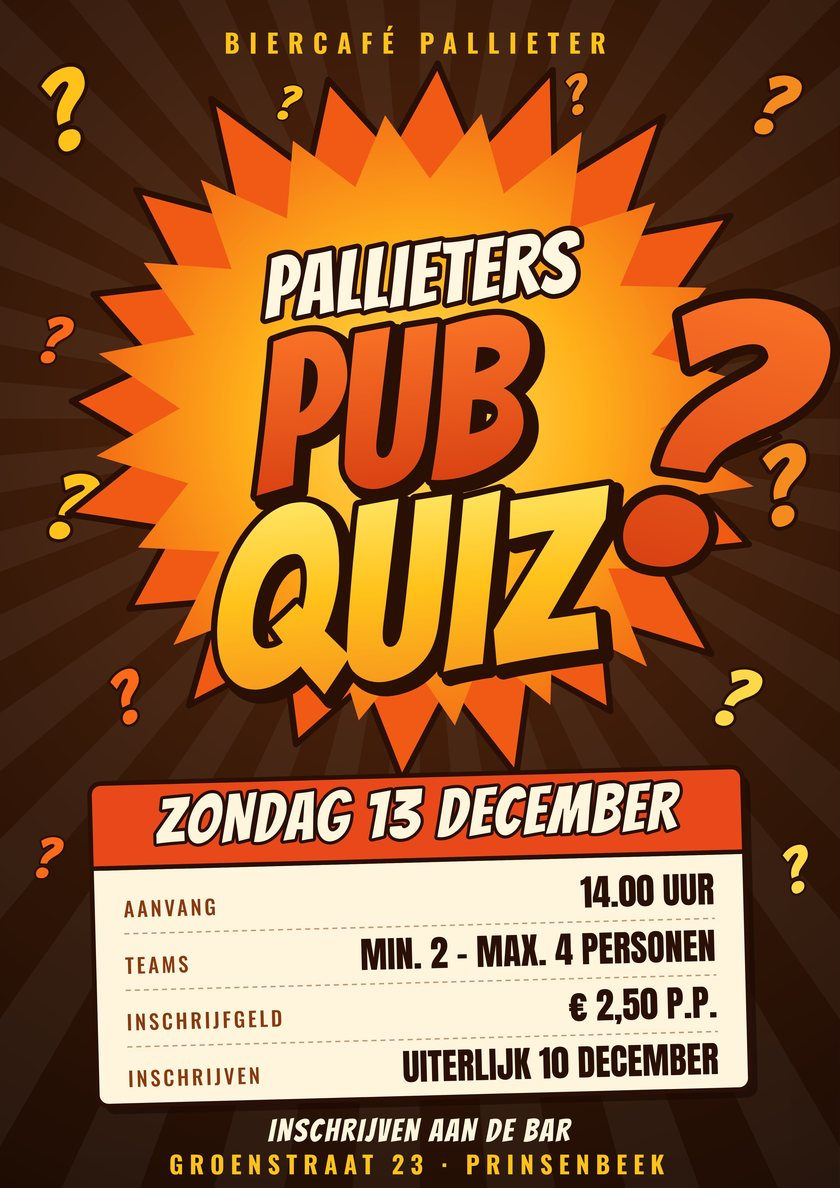
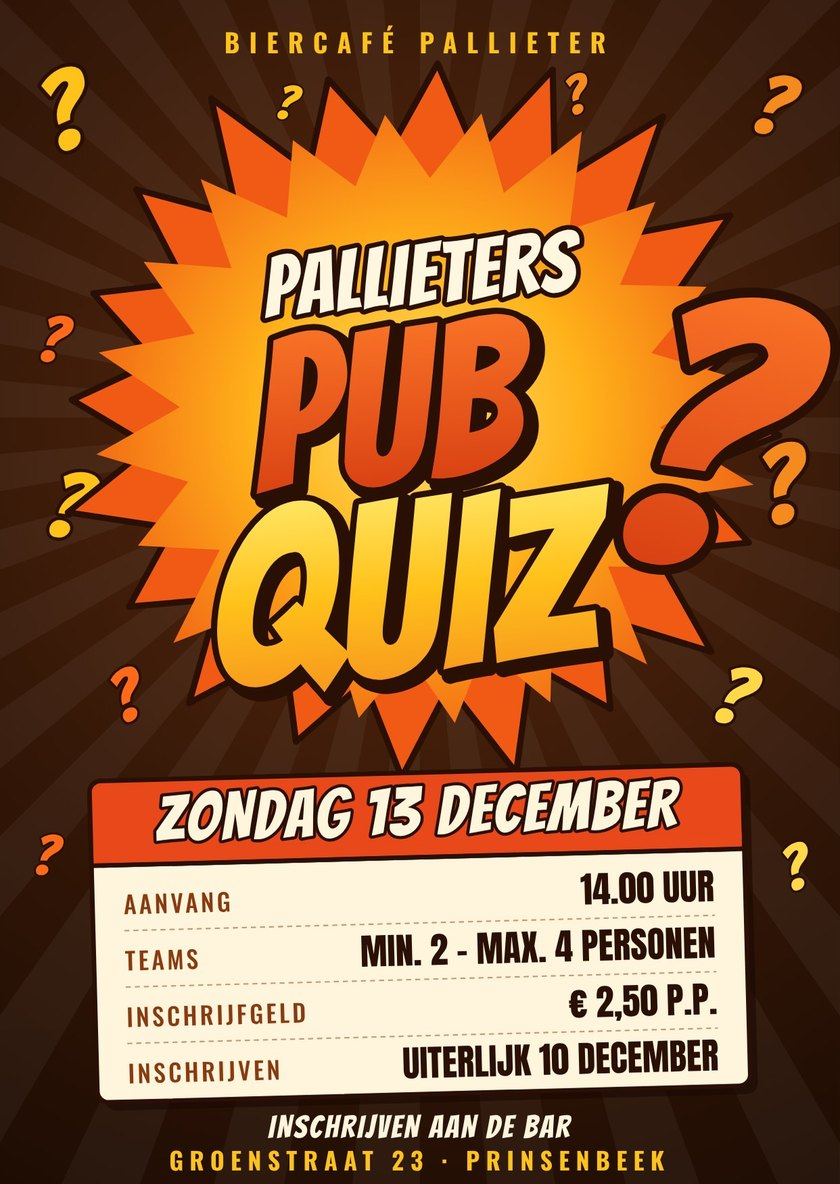
Bierkaart: A6-kaartje Pallieters Pubquiz 13 december bovenaan geplaatst in plaats van de A3-poster
Claude-Session: https://claude.ai/code/session_0118wkc9pXzNiR7YJ2Yc6FQe

Changed region(s): [[0.1548, 0.75, 0.3714, 0.9375]]

diff --git a/index.html b/index.html
@@ -242,7 +242,7 @@ mark{background:var(--amber);color:#1d1006;text-shadow:none;border-radius:2px;pa
     </div>
   </header>
   <figure class="promo" id="promo">
-    <img src="pubquiz.jpg" width="840" height="1188" loading="eager" alt="Pallieters Pubquiz: zondag 13 december, aanvang 14.00 uur. Teams van minimaal 2 en maximaal 4 personen, inschrijfgeld 2,50 euro per persoon. Inschrijven uiterlijk 10 december aan de bar.">
+    <img src="pubquiz.jpg" width="840" height="1184" loading="eager" alt="Pallieters Pubquiz: zondag 13 december, aanvang 14.00 uur. Teams van minimaal 2 en maximaal 4 personen, inschrijfgeld 2,50 euro per persoon. Inschrijven uiterlijk 10 december aan de bar.">
   </figure>
 </div>
 
